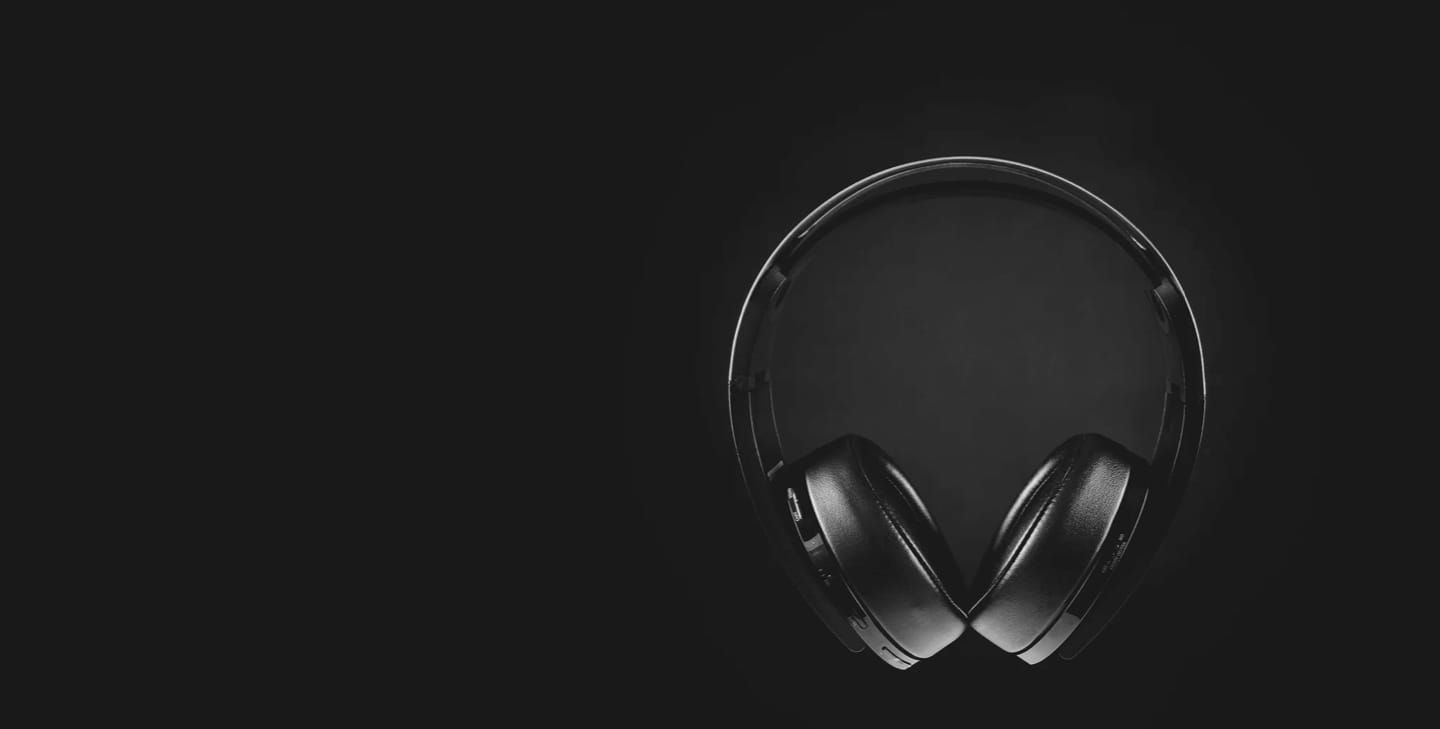
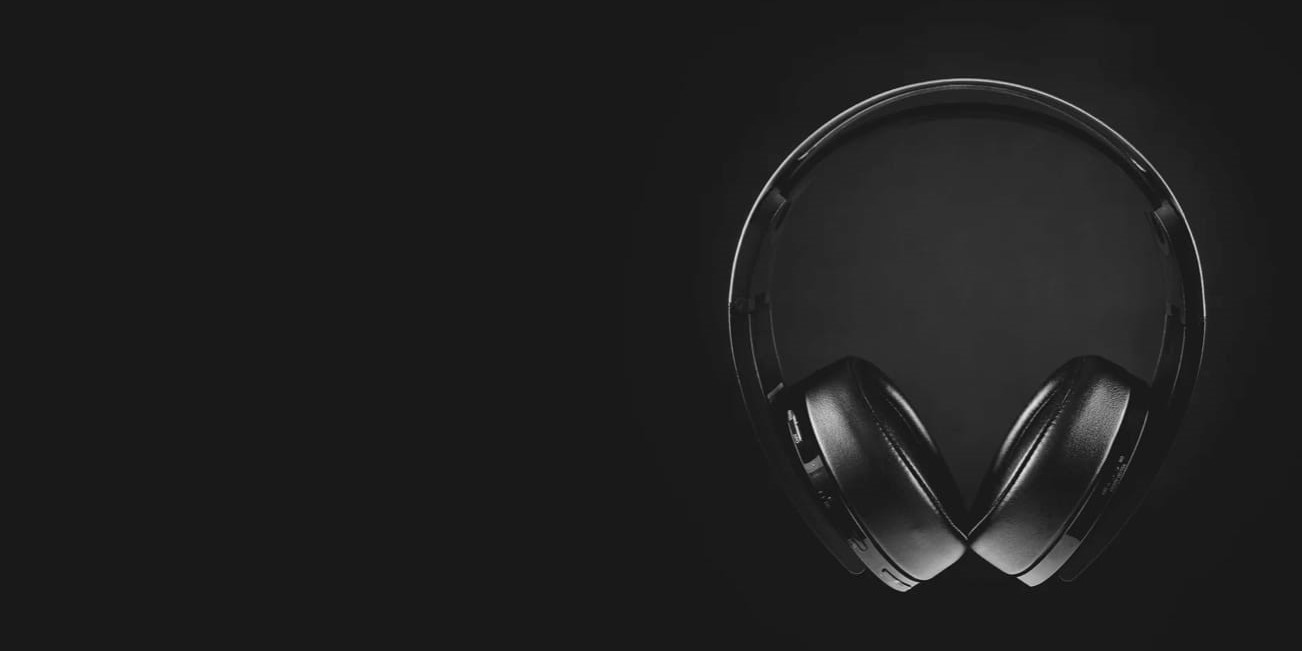
Completed hero section

diff --git a/src/Components/Home/Hero/Hero.jsx b/src/Components/Home/Hero/Hero.jsx
@@ -1,11 +1,30 @@
-import React from 'react';
+import React from 'react'
+import heroBg from '../../../assets/images/home/desktop/image-hero.jpg'
 
 const Hero = () => {
-    return (
-        <div className='bg-[#181918] h-screen'>
-            
-        </div>
-    );
-};
+  return (
+    <div className='bg-[#181918] h-screen'>
+      <div className='w-[100%] lg:w-[1130px] mx-auto relative'>
+        <div className='text-Div absolute left-0 top-1/2 transform -translate-y-1/2'>
+          <p className='text-[#ffffff80] text-[14px] tracking-[12px] font-bold'>
+            NEW PRODUCT
+          </p>
+          <h1 className='text-white text-[56px] font-bold mt-3 w-[50%] uppercase leading-[60px]'>
+            XX99 Mark II Headphones
+          </h1>
+          <p className='text-[#ffffff80] text-[15px] mt-5 w-[48%]'>
+            Experience natural, lifelike audio and exceptional build quality
+            made for the passionate music enthusiast.
+          </p>
 
-export default Hero;
+          <button className='bg-[#d87d4a] px-10 py-3 hover:bg-[#db956c]  text-white font-bold uppercase text-[13px] mt-8'>
+            See Product
+          </button>
+        </div>
+        <img className='' src={heroBg} alt='' />
+      </div>
+    </div>
+  )
+}
+
+export default Hero
